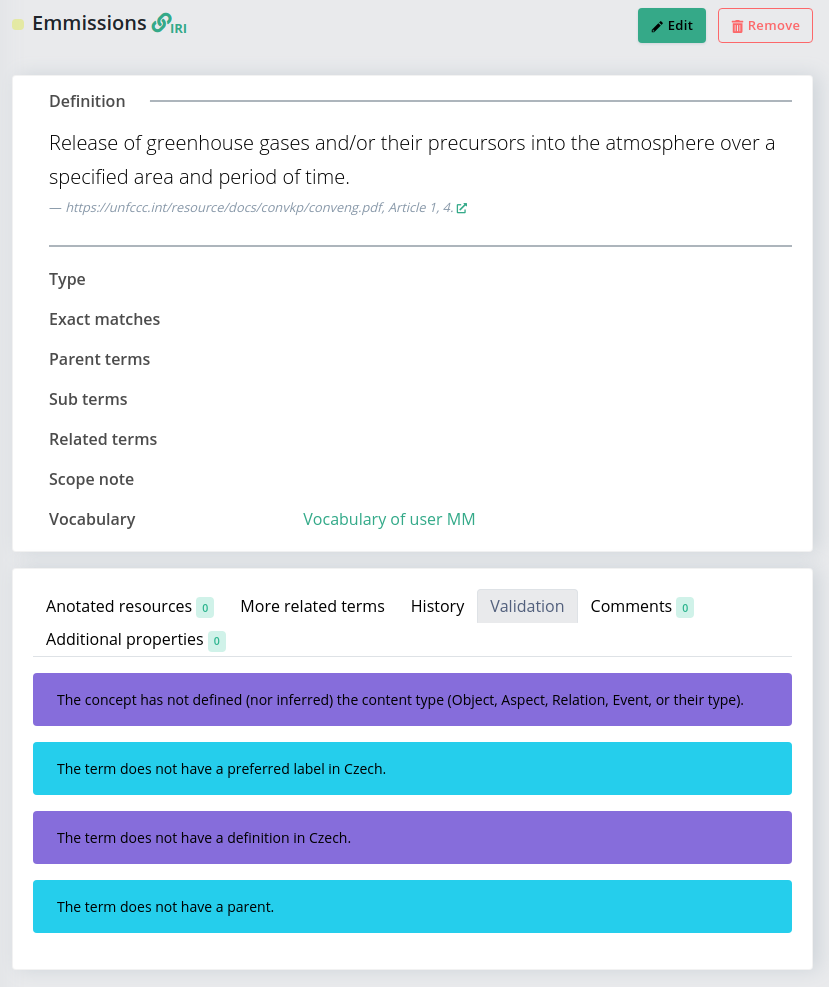
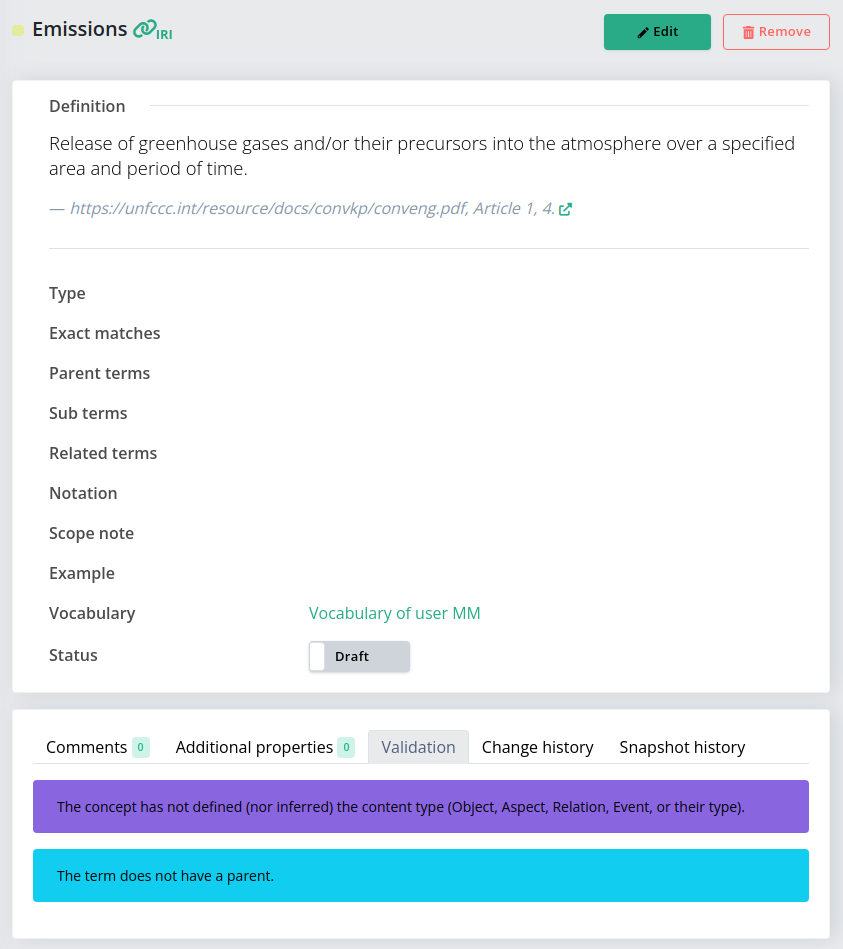
[Fix] Fix missing images in tutorial.
Update some images as well, minor text correction.

Changed region(s): [[0.0, 0.0, 0.9952, 1.0], [0.6031, 0.6112, 0.6936, 0.6417]]

diff --git a/README.md b/README.md
@@ -16,7 +16,7 @@ Web describes the basic features of TermIt and basic information about its autho
 
 
 ## Changes
-Current state of TermIt web is basically without content. Is is necessary to follow some rules during the content creation.
+It is necessary to follow some rules during the content creation.
 
 - Create new branch to push changes.
 - For each section is created a .md file in [_pages][_pages]. Feel free to create any content, but do not change the header (between --- lines).
